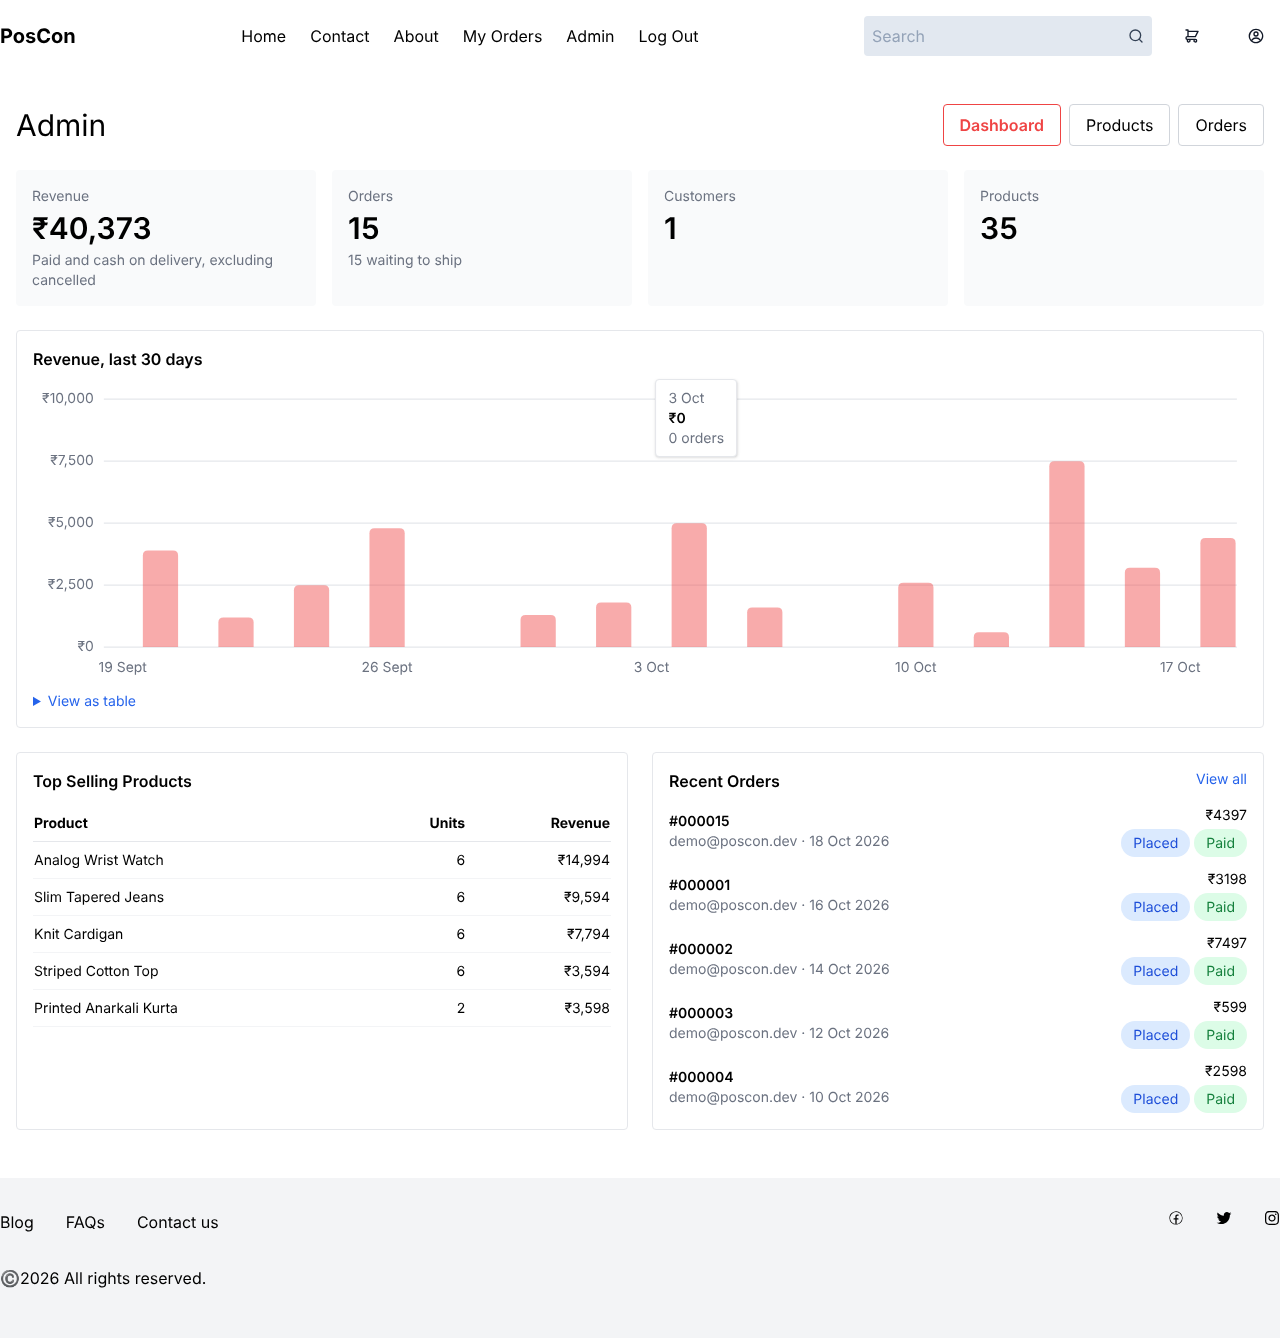
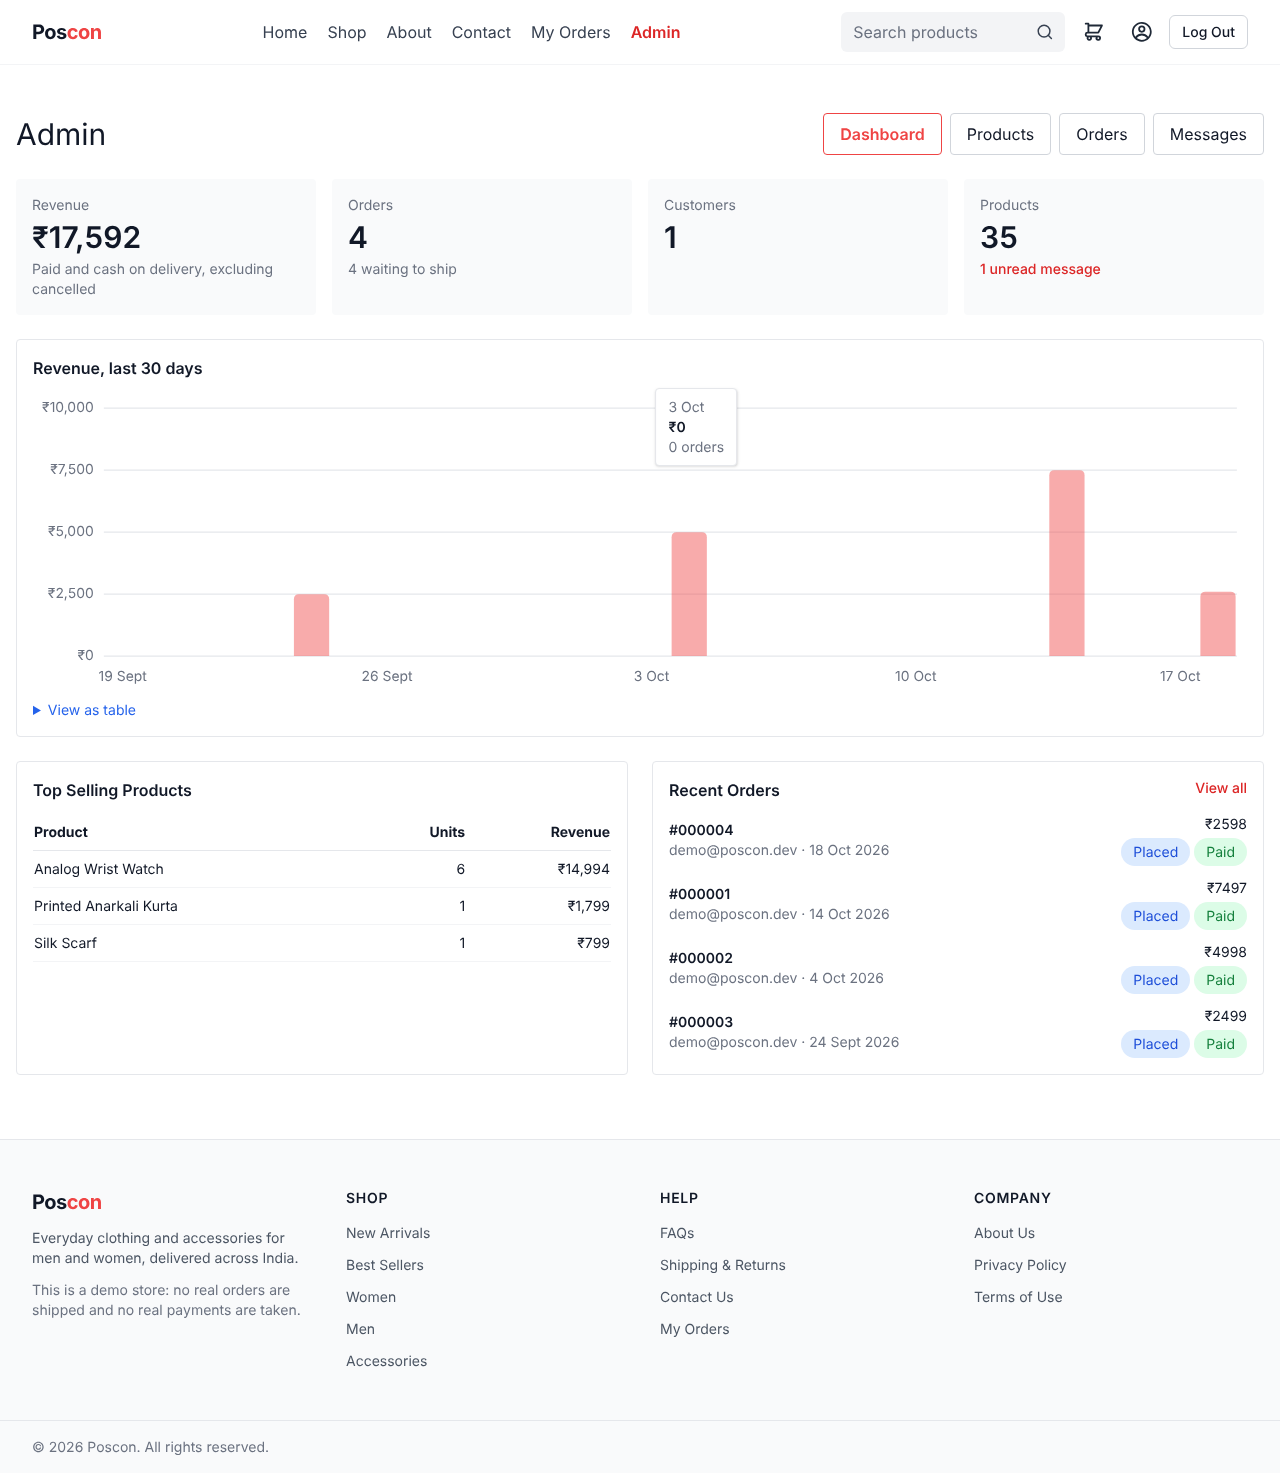
Update README and screenshots for the redesigned store
- Add the live demo and API docs links
- Describe the new pages, account settings, sizes and responsive design
- Document the new endpoints, table and environment variable
- Replace the screenshots and add account, contact, admin messages and phone views
- Match order status text exactly in the admin end-to-end test

diff --git a/e2e/tests/admin.spec.js b/e2e/tests/admin.spec.js
@@ -38,13 +38,13 @@ test("an admin adds a product and ships a customer's order", async ({ page, requ
     await page.goto("/admin/orders");
     const row = page.getByRole("row").filter({ hasText: orderNumber });
     await row.getByRole("combobox").selectOption("shipped");
-    await expect(row.getByText("Shipped")).toBeVisible();
+    await expect(row.getByText("Shipped", { exact: true })).toBeVisible();
   });
 
   await test.step("the customer sees the new status", async () => {
     await page.getByRole("button", { name: "Log Out" }).click();
     await logIn(page, demoCustomer);
     await page.goto(`/orders/${order.id}`);
-    await expect(page.getByText("Shipped")).toBeVisible();
+    await expect(page.getByText("Shipped", { exact: true })).toBeVisible();
   });
 });

diff --git a/README.md b/README.md
@@ -4,7 +4,9 @@
 
 Poscon is a full-stack e-commerce store for clothing and accessories. Shoppers can browse products by category, view product details, sign up and log in, add items to a cart and check out.
 
-**Live demo:** _coming soon_ · [How to deploy your own copy](docs/DEPLOYMENT.md)
+**Live demo:** [poscon-sandy.vercel.app](https://poscon-sandy.vercel.app) · **API docs:** [poscon-api.onrender.com/docs](https://poscon-api.onrender.com/docs) · [How to deploy your own copy](docs/DEPLOYMENT.md)
+
+> The API runs on Render's free tier and sleeps when idle, so the first visit can take up to a minute to load.
 
 **Demo accounts** (created by the seed script):
 
@@ -21,16 +23,20 @@ Poscon is a full-stack e-commerce store for clothing and accessories. Shoppers c
 - Product search from the navbar, with filters for gender, category and price range
 - Sorting by newest, popularity (units sold), price and biggest discount, with pagination
 - Search, filters, sort and page are kept in the URL, so results can be shared, reloaded and navigated with the back button
-- Product pages with their own shareable URL (`/product/:id`), discount pricing and quantity selection
+- Product pages with their own shareable URL (`/product/:id`), a size selector, breadcrumbs and related products
+- Products come in letter sizes, waist sizes or one size; the chosen size is kept on cart and order items
 - Account signup, login and logout with hashed passwords (bcrypt) and JWT authentication
 - Shared login state across the app, protected cart and profile pages, and automatic logout when a session expires
-- Cart with quantity controls, item removal, live subtotal and a navbar item count badge
+- Cart with quantity controls, item removal, an order summary and a navbar item count badge; adding an item shows a confirmation without leaving the page
 - Adding a product that is already in the cart increases its quantity instead of duplicating it
-- Checkout with a shipping address form, prefilled from the user's profile
+- Checkout with a delivery address form, filled in from the saved address, with an option to save a new one
 - Orders are created in a single database transaction that locks the cart, so a double click cannot place the same order twice
 - Order history and order detail pages, with the price paid saved on each order item
 - Simulated payment step with card, UPI and cash on delivery, including declined payments and retries (see [Demo Payments](#demo-payments))
-- Profile page for the logged-in user
+- Account page to edit name, phone number and default delivery address, and to change the password
+- Contact form that saves messages for the store admin, plus About, FAQs, Shipping & Returns, Privacy and Terms pages
+- Responsive design for phones, tablets and desktops, built on a small shared design system (buttons, inputs, cards, typography)
+- Live Deal of the Week countdown linked to the product with the biggest discount
 - Custom 404 page for unknown URLs
 
 ### Admin dashboard
@@ -38,6 +44,7 @@ Poscon is a full-stack e-commerce store for clothing and accessories. Shoppers c
 - Revenue, order, customer and product totals, a 30 day revenue chart, top selling products and recent orders
 - Add, edit and delete products with a live preview, and choose which products appear in Best Sellers
 - View all orders, filter by status and move orders through Placed → Shipped → Delivered, or cancel them
+- Read contact form messages, filter unread ones and reply by email
 - Admin pages are hidden from customers, and every admin API request checks the admin role in the database
 - Database migrations and seed data, so the whole app can be set up with one command
 
@@ -107,10 +114,11 @@ poscon/
 | :----------- | :------------------------------------------------------------- |
 | `users`      | Accounts with email, phone number, bcrypt password hash and admin flag |
 | `products`   | Catalogue with price, sale price, gender, category, bestseller flag |
-| `cart`       | Items in a user's cart, one row per product                     |
+| `cart`       | Items in a user's cart, one row per product and size            |
 | `orders`     | Placed orders with status, total and shipping address           |
 | `order_items`| Products in each order, with the name, image and price at purchase time |
 | `payments`   | Every payment attempt with its result, amount and transaction ID |
+| `contact_messages` | Messages sent through the contact form, with read status   |
 | `bestseller` | View over `products` where the bestseller flag is set          |
 
 ## Getting Started
@@ -192,6 +200,7 @@ The app opens at `http://localhost:3000`.
 | `SESSION_SECRET` | Secret used to sign JWTs                            |
 | `PG_TEST_DATABASE` | Database used by the test suites (default `poscon_test`, must end in `_test`) |
 | `AUTH_RATE_LIMIT` | Login and signup attempts allowed per 15 minutes (default `20`) |
+| `CONTACT_RATE_LIMIT` | Contact form messages allowed per 15 minutes from one address (default `5`) |
 
 **postocom/.env**
 
@@ -223,11 +232,11 @@ The app is set up to run on free tiers of [Neon](https://neon.tech) (PostgreSQL)
 
 | Suite | Tool | What it covers | Command |
 | :---- | :--- | :------------- | :------ |
-| API | Jest + Supertest | 95 tests: auth, products and search, cart, orders, payments, admin access, API docs accuracy, plus unit tests for the payment helpers | `cd server && npm test` |
+| API | Jest + Supertest | 116 tests: auth, profile, products and search, cart and sizes, orders, payments, contact messages, admin access, API docs accuracy, plus unit tests for the payment helpers | `cd server && npm test` |
 | Frontend | Jest + React Testing Library | Card helpers, formatting and the product card component | `cd postocom && npm test` |
-| End to end | Playwright | Full journeys in a real browser: sign up, search, cart, checkout, declined and successful payment, order history, admin adding a product and shipping an order, protected pages | `cd e2e && npm test` |
+| End to end | Playwright | 13 journeys in a real browser: sign up, search, sizes, cart, checkout, declined and successful payment, order history, saved address, contact form, admin adding a product, shipping an order and reading messages, protected pages, and phone layouts | `cd e2e && npm test` |
 
-The API suite reaches **about 97% line coverage** (`npm run test:coverage`).
+The API suite reaches **about 96% line coverage** (`npm run test:coverage`).
 
 The API and end-to-end tests run against a separate PostgreSQL database (`poscon_test` by default), which is created and rebuilt from the migrations and seed data before each run, so they never touch development data. The test setup refuses to run against a database whose name does not end in `_test`.
 
@@ -274,8 +283,11 @@ Endpoints marked 🔒 need an `Authorization: Bearer <token>` header, which the 
 | `GET`   | `/health`                     | Checks the API and database are up       |
 | `GET`   | `/products/:id`               | A single product                         |
 | `GET`   | `/profile` 🔒                 | Logged-in user's profile                 |
+| `PATCH` | `/profile` 🔒                 | Update name, phone and saved address     |
+| `PATCH` | `/profile/password` 🔒        | Change the password (`currentPassword`, `newPassword`) |
+| `POST`  | `/contact`                    | Send a message to the store (`name`, `email`, `subject`, `message`) |
 | `GET`   | `/cartdata` 🔒                | Items in the user's cart                 |
-| `POST`  | `/addtocart` 🔒               | Add a product to the cart, or increase its quantity (`pid`, `count`) |
+| `POST`  | `/addtocart` 🔒               | Add a product to the cart, or increase its quantity (`pid`, `count`, `size`) |
 | `PATCH` | `/cart/:id` 🔒                | Change the quantity of a cart item (`quantity`, 1 to 10) |
 | `DELETE`| `/cart/:id` 🔒                | Remove an item from the cart             |
 | `POST`  | `/orders` 🔒                  | Place an order from the cart (`name`, `phone`, `address`, `city`, `pincode`) |
@@ -314,6 +326,8 @@ All admin endpoints need a token for a user with the admin role. Other users get
 | `POST`   | `/admin/products`       | Create a product                                   |
 | `PUT`    | `/admin/products/:id`   | Update a product                                   |
 | `DELETE` | `/admin/products/:id`   | Delete a product (past orders keep their copy)     |
+| `GET`    | `/admin/messages`       | Contact form messages, optionally filtered by `status` (`new` or `read`) |
+| `PATCH`  | `/admin/messages/:id`   | Mark a message as `read` or `new`                  |
 
 Errors are returned as JSON in the form `{ "error": "message" }` with a matching status code (`400`, `401`, `402`, `403`, `404`, `409`, `429` or `500`).
 
@@ -343,8 +357,12 @@ Use any name, any future expiry date and any 3 digit CVV. A declined payment lea
 | ![Payment](demo/Payment.png) | ![Order confirmation](demo/OrderConfirmation.png) |
 | **Admin dashboard** | **Admin orders** |
 | ![Admin dashboard](demo/AdminDashboard.png) | ![Admin orders](demo/AdminOrders.png) |
-| **Interactive API docs** | |
-| ![API docs](demo/ApiDocs.png) | |
+| **Account** | **Contact** |
+| ![Account](demo/Account.png) | ![Contact](demo/Contact.png) |
+| **Admin messages** | **Interactive API docs** |
+| ![Admin messages](demo/AdminMessages.png) | ![API docs](demo/ApiDocs.png) |
+
+<p align="center"><img src="demo/MobileProduct.png" alt="Product page on a phone" width="300"></p>
 
 Product images are original illustrations, one per product, created by [`postocom/scripts/generate-product-images.mjs`](postocom/scripts/generate-product-images.mjs). Admins can replace any of them with a photo URL from the product form.
 
@@ -359,7 +377,8 @@ Product images are original illustrations, one per product, created by [`postoco
 - [x] CI pipeline
 - [x] Docker setup
 - [x] API docs (OpenAPI + Swagger UI)
-- [ ] Live deployment
+- [x] Live deployment
+- [x] Responsive design, content pages, contact form, account settings and product sizes
 
 ## License
 
